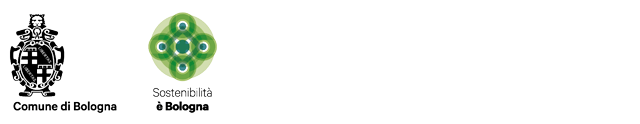
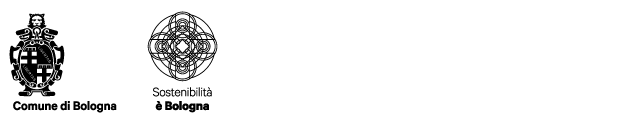
loghi neri

diff --git a/www/pages/crediti.html b/www/pages/crediti.html
@@ -18,12 +18,12 @@
             <p>Progetto a cura di Comune di Bologna e Fondazione per l’Innovazione Urbana, in collaborazione con Università di Bologna, Arpae Emilia-Romagna, Ausl Bologna, Città metropolitana di Bologna e Regione Emilia-Romagna. </p>
             <p>Il progetto è realizzato nell’ambito del Laboratorio aperto metropolitano, per l’immaginazione, la collaborazione e innovazione civica, Por Fesr 2014-2020, linea di finanziamento Asse 6 - Città attrattive e partecipate coordinato dal Servizio Ricerca innovazione ed energia ed economia sostenibile della Regione Emilia-Romagna.
             </p>
-            <img src="../img/LoghiAria-01.png" class="logoaria">
+            <img src="./img/LoghiAria-01.png" class="logoaria">
             <p class="loghi">Progetto cofinanziato dal Fondo europeo di sviluppo regionale</p>
-            <img src="../img/LoghiAria-04.png" class="logoaria">
+            <img src="./img/LoghiAria-04.png" class="logoaria">
             <p class="loghi">A cura di</p>
-            <img src="../img/LoghiAria-02.png" class="logoaria">
-            <img src="../img/LoghiAria-03.png" class="logoaria">
+            <img src="./img/LoghiAria-02.png" class="logoaria">
+            <img src="./img/LoghiAria-03.png" class="logoaria">
         </div>
         <div class="block"><br/></div>
     </div>
